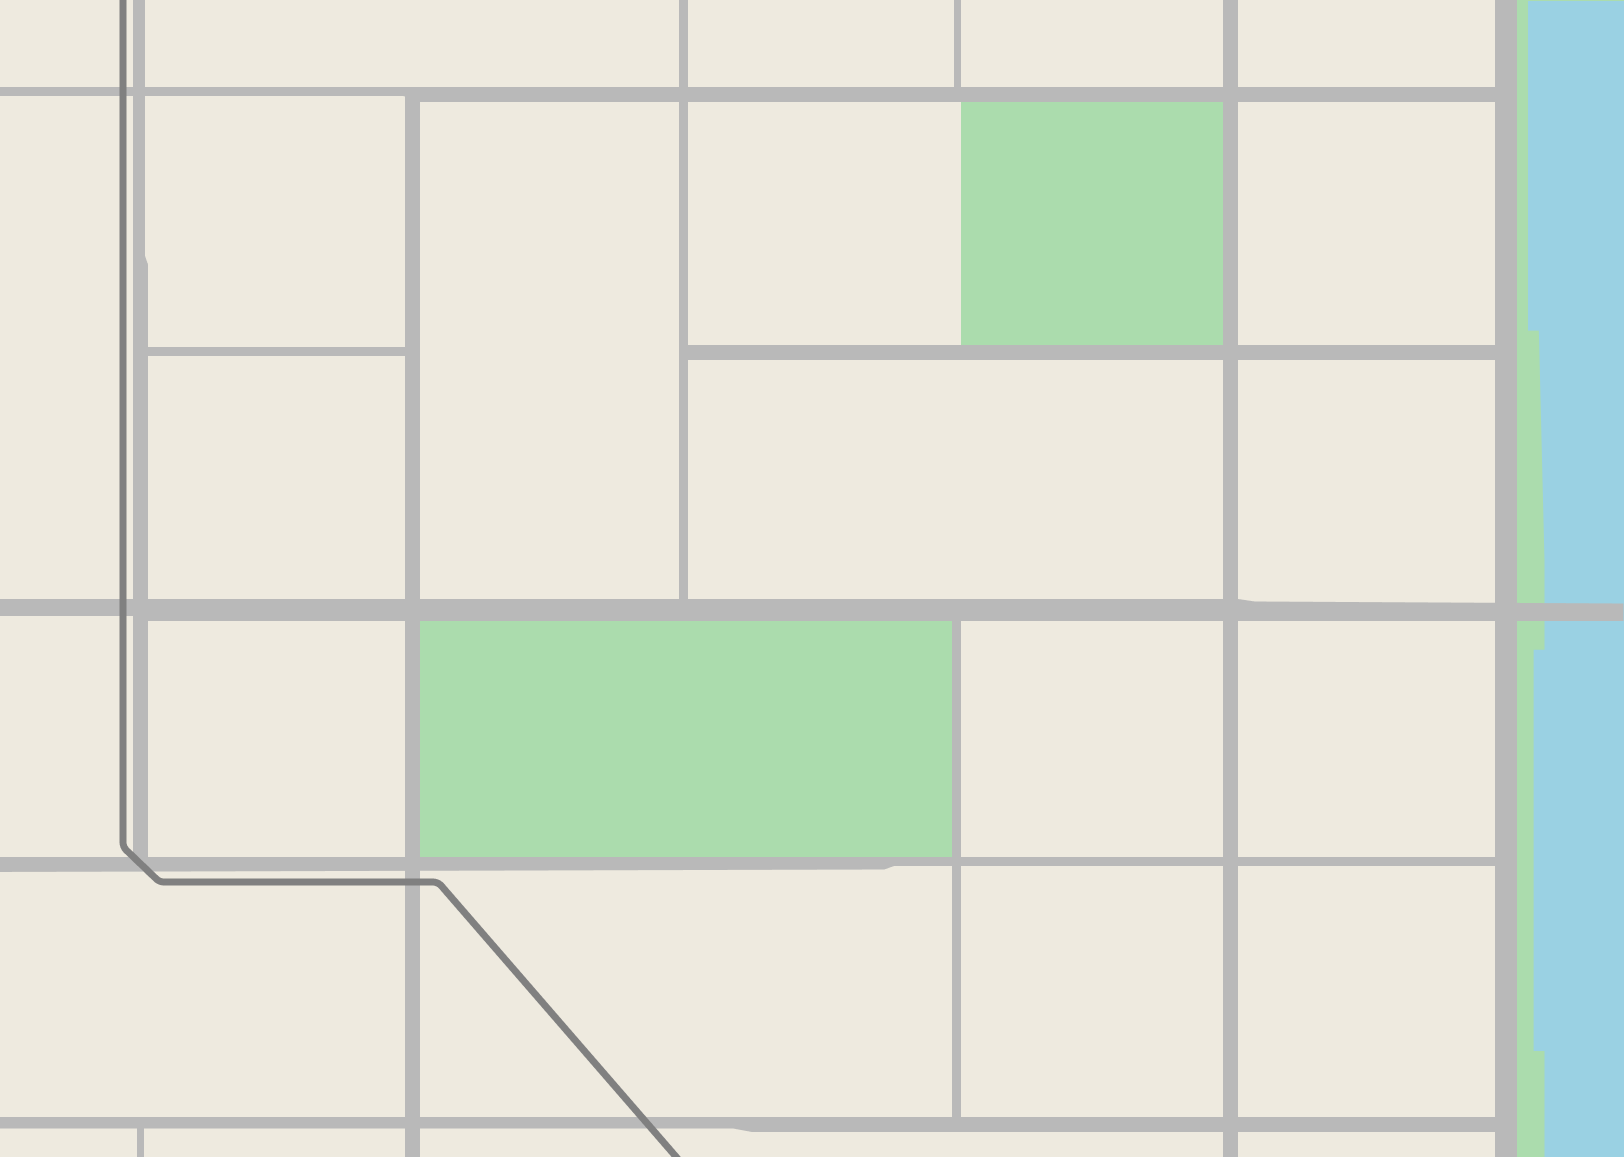
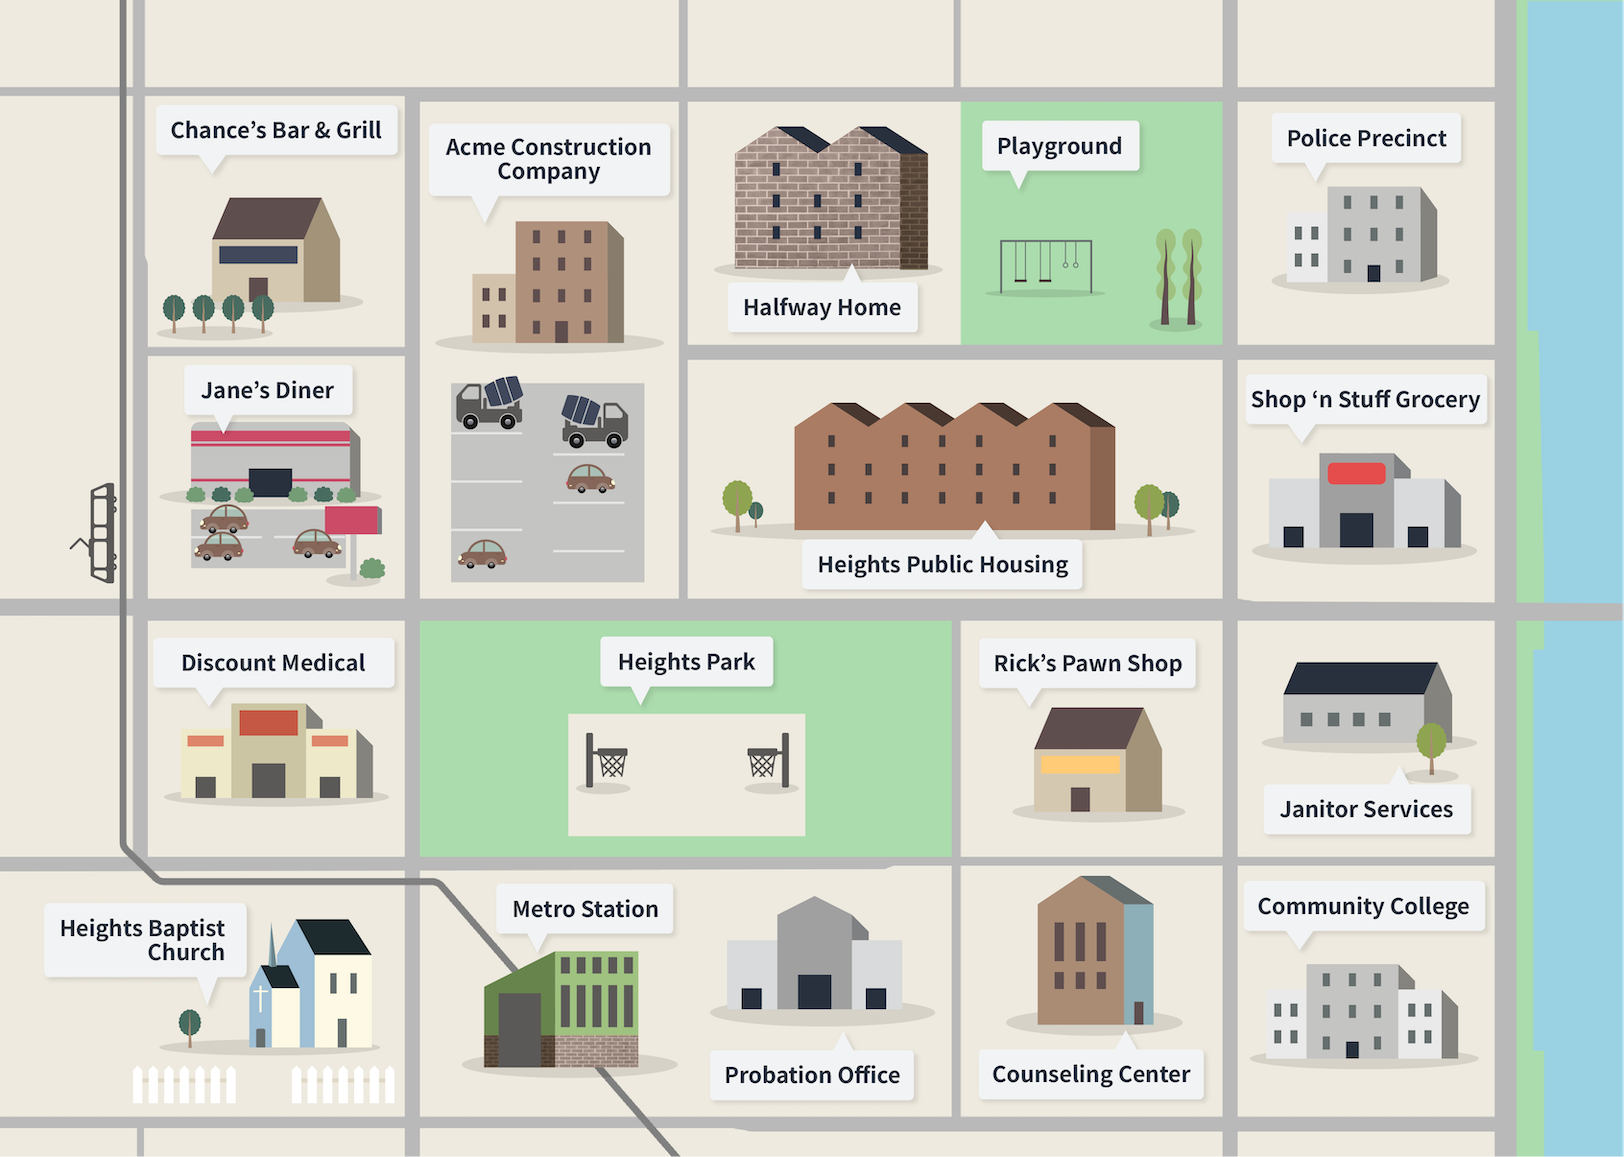
new maps, hooray

diff --git a/reap.js b/reap.js
@@ -730,14 +730,6 @@ const drawStatusBar = ({ width }, { player, colors, itemTable }) => {
   ctx.fillText( statusTxt, width - statusTxtMetrics.width - padding, verticalCenter);
 };
 
-const drawMapTitle = ({ colors }, title, x, y) => {
-  const textmargin = 10;
-  ctx.font = '12px Arial, sans-serif';
-  const metrics = ctx.measureText(title);
-  ctx.fillStyle = colors.BLACK;
-  ctx.fillText(title, x + textmargin, y + textmargin + metrics.fontBoundingBoxAscent);
-};
-
 const _shapeInBlock = (scalex, scaley) => (block) => ({
   x: scalex(block.pos[0][0]),
   y: scaley(block.pos[0][1]),
@@ -804,7 +796,6 @@ const drawMap = ({ width, height}, state, dispatch, e) => {
     // to handle map interaction
     block.coordinates = shape;
     ctx.fill();
-    drawMapTitle(state, block.title, shape.x, shape.y);
   });
 };
 

diff --git a/index.html b/index.html
@@ -14,7 +14,7 @@
             [v-cloak]::before { content: "Loading game data" }
             canvas { width: 100%; }
             body { background-color: #fff; }
-            #wrapper { position: relative; max-width: 800px; }
+            #wrapper { position: relative; max-width: 960px; }
             #modal { position: absolute; top: 0; left: 0; width: 100%; height: 100%; display: none; background-color: #000000aa; }
             #modal div.choice-box { background-color: #fff; max-width: 750px; margin: 29px auto; padding-bottom: 20px; }
             #modal .container, #modal h2 { margin: 5px; }
